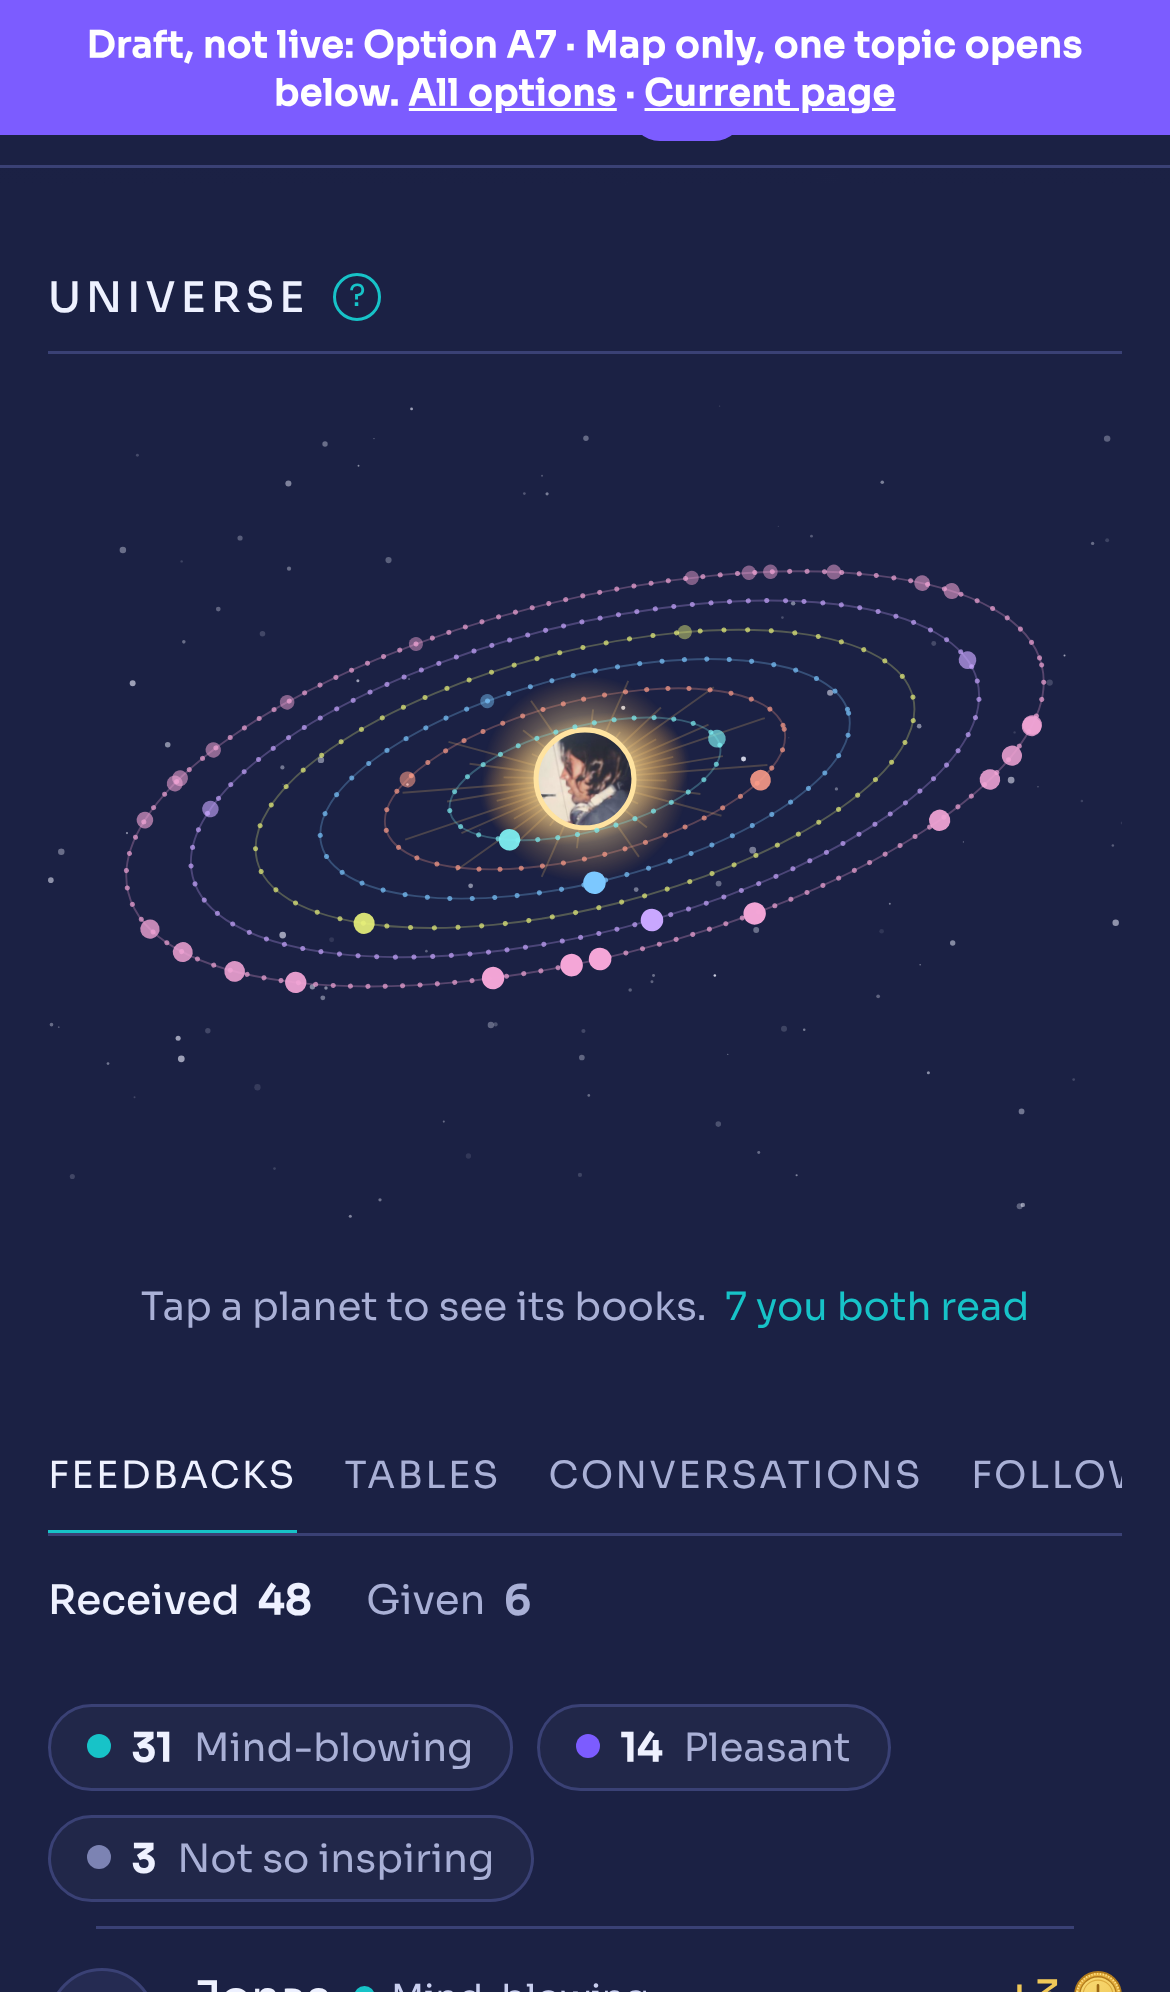
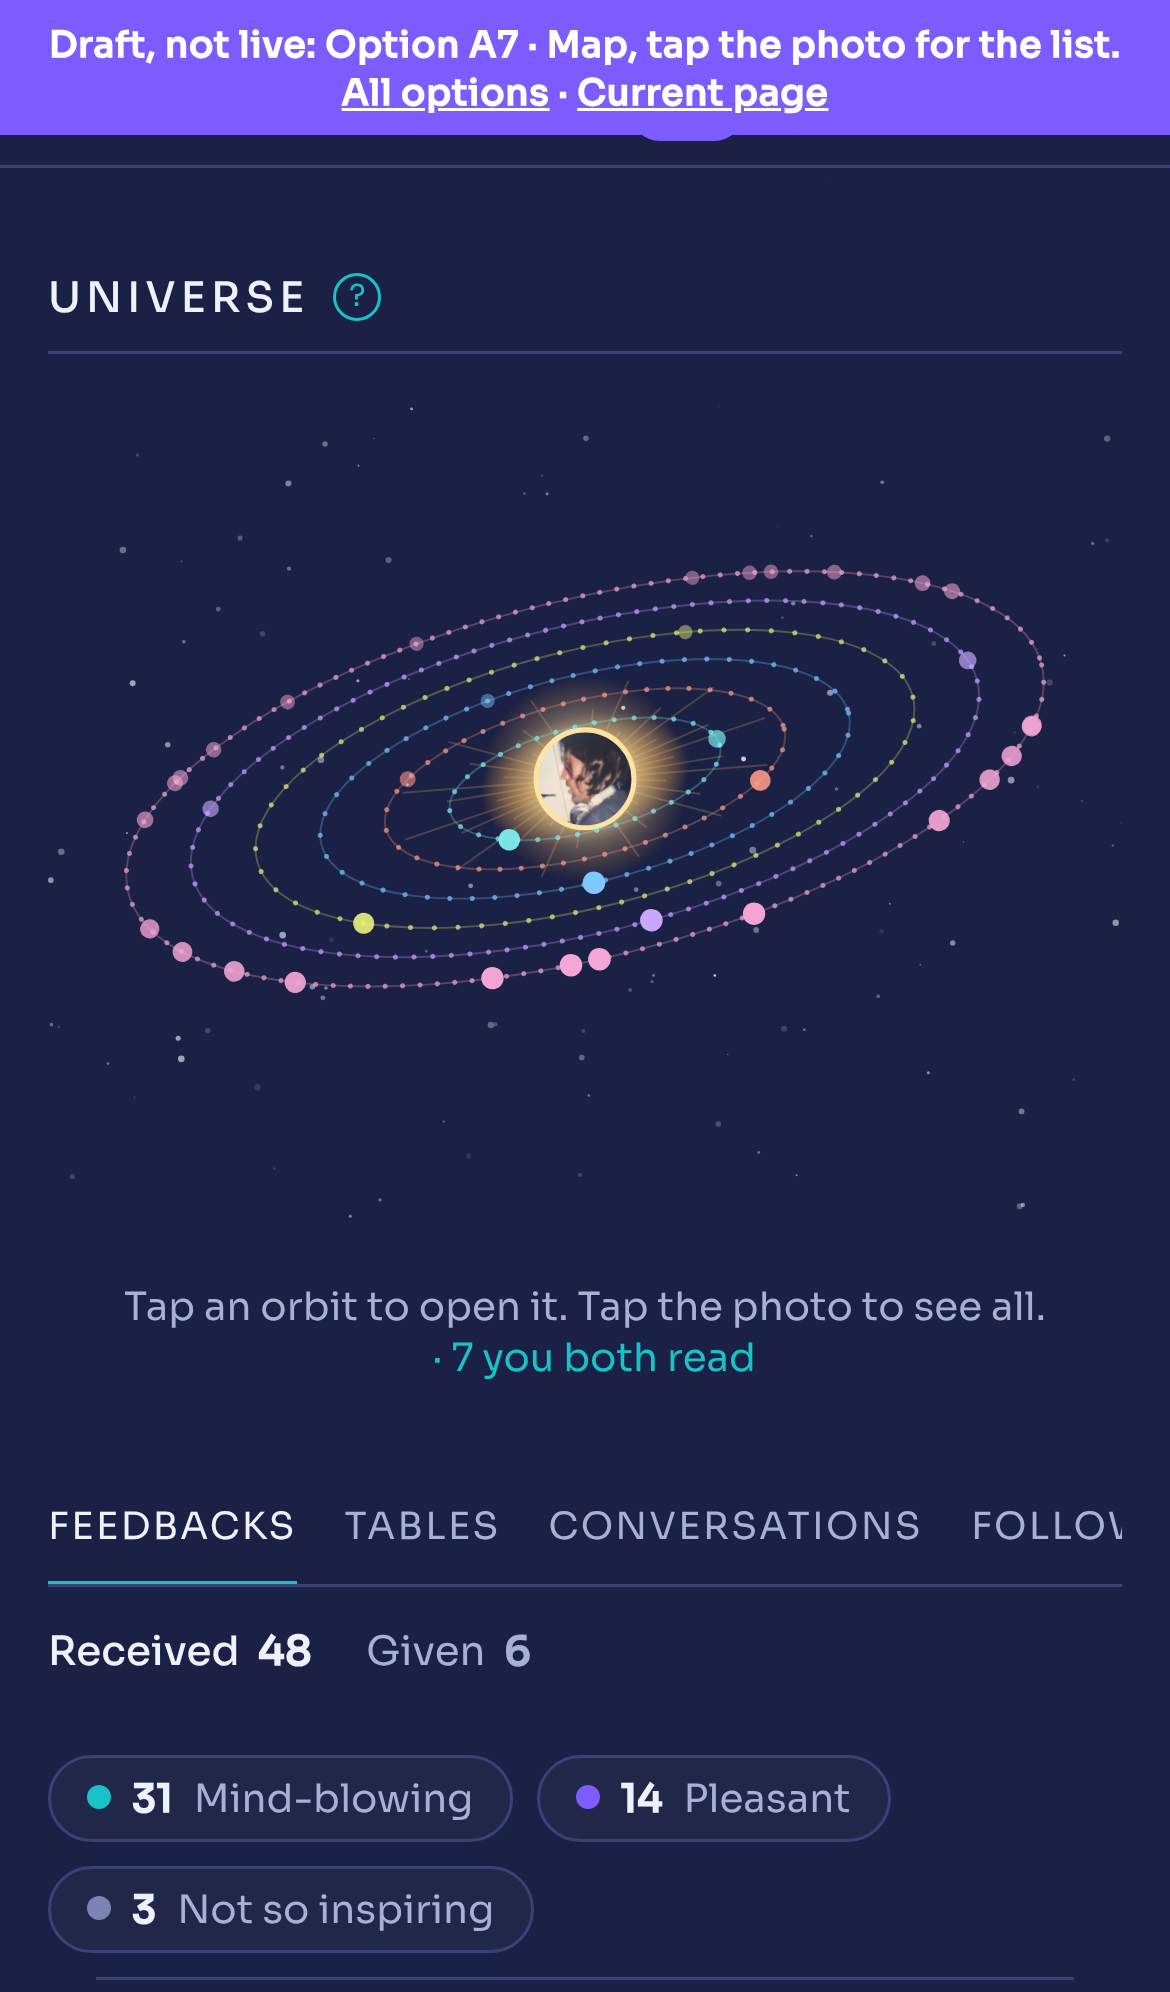
Profile option A7: tapping the photo swaps the map for the list of all topics
Claude-Session: https://claude.ai/code/session_018eq6NgwUiJJnwPF1moeBy1

diff --git a/profile-options/option-a7.html b/profile-options/option-a7.html
@@ -786,7 +786,18 @@ body .lbtabs .mix:has(.filt:not([hidden])){display:none}
 .opt-hint button{all:unset;cursor:pointer;color:var(--teal);margin-left:6px}
 .opt-hint button:focus-visible{outline:2px solid var(--teal);outline-offset:2px}
 .uni-a7open .opt-hint{display:none}
-</style></head><body><div class="optbar">Draft, not live: Option A7 · Map only, one topic opens below. <a href="index.html" style="color:#fff">All options</a> · <a href="../profile/timecapsule-profile.html" style="color:#fff">Current page</a></div>
+#uni .sunav{cursor:pointer}
+#uni .sunav:focus{outline:none}
+.opt-allhead{display:none}
+body.opt-allrows .opt-rows{display:block!important;border-top:0}
+body.opt-allrows .opt-rows>.opt-g{display:block!important;border-bottom:1px solid var(--line)}
+body.opt-allrows .opt-allhead{display:flex;align-items:center;justify-content:space-between;padding:12px 4px 10px;font-size:12px;letter-spacing:.14em;text-transform:uppercase;color:var(--mute);border-bottom:1px solid var(--line)}
+body.opt-allrows .opt-allhead button{all:unset;cursor:pointer;color:var(--teal);font-size:13px;letter-spacing:0;text-transform:none}
+body.opt-allrows #uniview{display:none!important}
+body.opt-allrows .opt-rows{margin-top:0}
+body.opt-allrows .opt-row[aria-expanded=false] svg{visibility:hidden}
+body.opt-allrows .opt-hint{display:none}
+</style></head><body><div class="optbar">Draft, not live: Option A7 · Map, tap the photo for the list. <a href="index.html" style="color:#fff">All options</a> · <a href="../profile/timecapsule-profile.html" style="color:#fff">Current page</a></div>
 <svg width="0" height="0" style="position:absolute" aria-hidden="true"><defs><linearGradient id="cg" x1="0" y1="0" x2="1" y2="1"><stop offset="0" stop-color="#F9DA74"/><stop offset="1" stop-color="#F0C858"/></linearGradient><symbol id="coin" viewBox="0 0 40 40"><circle cx="20" cy="20" r="19.2" fill="#E2AC3C" stroke="#B07A1C" stroke-width="1.4"/><circle cx="20" cy="20" r="17.6" fill="none" stroke="#FFE38A" stroke-width="1.6" stroke-dasharray="1 1.4"/><circle cx="20" cy="20" r="15.2" fill="url(#cg)" stroke="#B07A1C" stroke-width="1.1"/><circle cx="20" cy="20" r="12.4" fill="none" stroke="#C98F22" stroke-opacity=".6" stroke-width=".9"/><path d="M20 12V20L25.5 23.2" fill="none" stroke="#9A6614" stroke-width="2.2" stroke-linecap="round" stroke-linejoin="round"/><circle cx="20" cy="20" r="1.8" fill="#9A6614"/></symbol></defs></svg>
 
 
@@ -2271,10 +2282,21 @@ mo.observe(u,{childList:true,subtree:true,attributes:true,attributeFilter:['aria
  var X='<svg viewBox="0 0 24 24" width="14" height="14" fill="none" stroke="currentColor" stroke-width="2" stroke-linecap="round" aria-hidden="true"><path d="M6 6l12 12M18 6L6 18"/></svg>';
  function fix(){rows.querySelectorAll('.opt-row').forEach(function(b){var s=b.querySelector('svg');if(s&&!s.dataset.x){s.outerHTML=X;b.querySelector('svg').dataset.x=1;b.setAttribute('aria-label',b.textContent.trim()+', close')}})}
  fix();new MutationObserver(fix).observe(rows,{childList:true});
- var hint=document.createElement('p');hint.className='opt-hint';hint.textContent='Tap a planet to see its books.';rows.before(hint);
+ var hint=document.createElement('p');hint.className='opt-hint';hint.textContent='Tap an orbit to open it. Tap the photo to see all.';rows.before(hint);
  var mut=rows.querySelector('.opt-g[data-k="__mut"]');
- if(mut){var n=mut.lastChild.querySelectorAll(':scope>div:not(.opt-all)').length,b=document.createElement('button');b.type='button';b.textContent=n+' you both read';
+ if(mut){var n=mut.lastChild.querySelectorAll(':scope>div:not(.opt-all)').length,b=document.createElement('button');b.type='button';b.textContent='· '+n+' you both read';
   b.addEventListener('click',function(){mut.firstChild.click()});hint.appendChild(b)}
+
+ // tapping the photo shows every topic (each opens in place)
+ var head=document.createElement('div');head.className='opt-allhead';head.innerHTML='<span>All topics</span><button type="button">Back to the map</button>';rows.prepend(head);
+ function all(on){document.body.classList.toggle('opt-allrows',on);if(!on)rows.querySelectorAll('.opt-row[aria-expanded=true]').forEach(function(b){b.click()})}
+ head.querySelector('button').addEventListener('click',function(){all(false)});
+ var sun=document.querySelector('#uni .sunav');
+ if(sun){sun.setAttribute('tabindex','0');sun.setAttribute('role','button');sun.setAttribute('aria-label','See all topics as a list');
+  var go=function(e){e.stopImmediatePropagation();e.preventDefault();rows.querySelectorAll('.opt-row[aria-expanded=true]').forEach(function(b){b.setAttribute('aria-expanded','false');b.nextSibling.hidden=true});all(true);var h=document.getElementById('uni-h');if(h&&h.getBoundingClientRect().top<0)h.scrollIntoView({block:'start'})};
+  var onSun=function(e){if(e.target.closest&&e.target.closest('.sunav'))return true;if(e.clientX==null)return false;var r=sun.getBoundingClientRect();return e.clientX>=r.left&&e.clientX<=r.right&&e.clientY>=r.top&&e.clientY<=r.bottom};
+  view.addEventListener('click',function(e){if(!document.body.classList.contains('opt-allrows')&&onSun(e))go(e)},true);
+  sun.addEventListener('keydown',function(e){if(e.key==='Enter'||e.key===' ')go(e)},true)}
  var host=view.closest('.uni')||document.body;
  new MutationObserver(function(){document.body.classList.toggle('uni-a7open',!!rows.querySelector('.opt-row[aria-expanded=true]'))}).observe(rows,{subtree:true,attributes:true,attributeFilter:['aria-expanded']});
 })();

diff --git a/profile-options/a7.js b/profile-options/a7.js
@@ -4,10 +4,21 @@
  var X='<svg viewBox="0 0 24 24" width="14" height="14" fill="none" stroke="currentColor" stroke-width="2" stroke-linecap="round" aria-hidden="true"><path d="M6 6l12 12M18 6L6 18"/></svg>';
  function fix(){rows.querySelectorAll('.opt-row').forEach(function(b){var s=b.querySelector('svg');if(s&&!s.dataset.x){s.outerHTML=X;b.querySelector('svg').dataset.x=1;b.setAttribute('aria-label',b.textContent.trim()+', close')}})}
  fix();new MutationObserver(fix).observe(rows,{childList:true});
- var hint=document.createElement('p');hint.className='opt-hint';hint.textContent='Tap a planet to see its books.';rows.before(hint);
+ var hint=document.createElement('p');hint.className='opt-hint';hint.textContent='Tap an orbit to open it. Tap the photo to see all.';rows.before(hint);
  var mut=rows.querySelector('.opt-g[data-k="__mut"]');
- if(mut){var n=mut.lastChild.querySelectorAll(':scope>div:not(.opt-all)').length,b=document.createElement('button');b.type='button';b.textContent=n+' you both read';
+ if(mut){var n=mut.lastChild.querySelectorAll(':scope>div:not(.opt-all)').length,b=document.createElement('button');b.type='button';b.textContent='· '+n+' you both read';
   b.addEventListener('click',function(){mut.firstChild.click()});hint.appendChild(b)}
+
+ // tapping the photo shows every topic (each opens in place)
+ var head=document.createElement('div');head.className='opt-allhead';head.innerHTML='<span>All topics</span><button type="button">Back to the map</button>';rows.prepend(head);
+ function all(on){document.body.classList.toggle('opt-allrows',on);if(!on)rows.querySelectorAll('.opt-row[aria-expanded=true]').forEach(function(b){b.click()})}
+ head.querySelector('button').addEventListener('click',function(){all(false)});
+ var sun=document.querySelector('#uni .sunav');
+ if(sun){sun.setAttribute('tabindex','0');sun.setAttribute('role','button');sun.setAttribute('aria-label','See all topics as a list');
+  var go=function(e){e.stopImmediatePropagation();e.preventDefault();rows.querySelectorAll('.opt-row[aria-expanded=true]').forEach(function(b){b.setAttribute('aria-expanded','false');b.nextSibling.hidden=true});all(true);var h=document.getElementById('uni-h');if(h&&h.getBoundingClientRect().top<0)h.scrollIntoView({block:'start'})};
+  var onSun=function(e){if(e.target.closest&&e.target.closest('.sunav'))return true;if(e.clientX==null)return false;var r=sun.getBoundingClientRect();return e.clientX>=r.left&&e.clientX<=r.right&&e.clientY>=r.top&&e.clientY<=r.bottom};
+  view.addEventListener('click',function(e){if(!document.body.classList.contains('opt-allrows')&&onSun(e))go(e)},true);
+  sun.addEventListener('keydown',function(e){if(e.key==='Enter'||e.key===' ')go(e)},true)}
  var host=view.closest('.uni')||document.body;
  new MutationObserver(function(){document.body.classList.toggle('uni-a7open',!!rows.querySelector('.opt-row[aria-expanded=true]'))}).observe(rows,{subtree:true,attributes:true,attributeFilter:['aria-expanded']});
 })();

diff --git a/profile-options/a7.css b/profile-options/a7.css
@@ -11,3 +11,14 @@
 .opt-hint button{all:unset;cursor:pointer;color:var(--teal);margin-left:6px}
 .opt-hint button:focus-visible{outline:2px solid var(--teal);outline-offset:2px}
 .uni-a7open .opt-hint{display:none}
+#uni .sunav{cursor:pointer}
+#uni .sunav:focus{outline:none}
+.opt-allhead{display:none}
+body.opt-allrows .opt-rows{display:block!important;border-top:0}
+body.opt-allrows .opt-rows>.opt-g{display:block!important;border-bottom:1px solid var(--line)}
+body.opt-allrows .opt-allhead{display:flex;align-items:center;justify-content:space-between;padding:12px 4px 10px;font-size:12px;letter-spacing:.14em;text-transform:uppercase;color:var(--mute);border-bottom:1px solid var(--line)}
+body.opt-allrows .opt-allhead button{all:unset;cursor:pointer;color:var(--teal);font-size:13px;letter-spacing:0;text-transform:none}
+body.opt-allrows #uniview{display:none!important}
+body.opt-allrows .opt-rows{margin-top:0}
+body.opt-allrows .opt-row[aria-expanded=false] svg{visibility:hidden}
+body.opt-allrows .opt-hint{display:none}

diff --git a/profile-options/build.py b/profile-options/build.py
@@ -4,7 +4,7 @@ import os
 here=os.path.dirname(os.path.abspath(__file__))
 src=open(os.path.join(here,'..','profile','timecapsule-profile.html'),encoding='utf-8').read()
 common=open(os.path.join(here,'common.css')).read()
-names={'a7':'Option A7 · Map only, one topic opens below','a6':'Option A6 · Map only, lists in the tabs','a5':'Option A5 · Map or List','a4':'Option A4 · Universe on the cover','a3':'Option A3 · One way in','a2':'Option A2 · Lists open in the page','a':'Option A · One calm column','b':'Option B · The universe is the cover','c':'Option C · Same layout, trimmed'}
+names={'a7':'Option A7 · Map, tap the photo for the list','a6':'Option A6 · Map only, lists in the tabs','a5':'Option A5 · Map or List','a4':'Option A4 · Universe on the cover','a3':'Option A3 · One way in','a2':'Option A2 · Lists open in the page','a':'Option A · One calm column','b':'Option B · The universe is the cover','c':'Option C · Same layout, trimmed'}
 for k,label in names.items():
     parts={'a2':['a','a2'],'a3':['a','a2','a3'],'a4':['a','a2','a3','a4'],'a5':['a','a2','a3','a5'],'a6':['a','a2','a3','a6'],'a7':['a','a2','a3','a7']}.get(k,[k])
     css='\n'.join(open(os.path.join(here,p+'.css')).read() for p in parts); js='\n'.join(open(os.path.join(here,p+'.js')).read() for p in parts)
